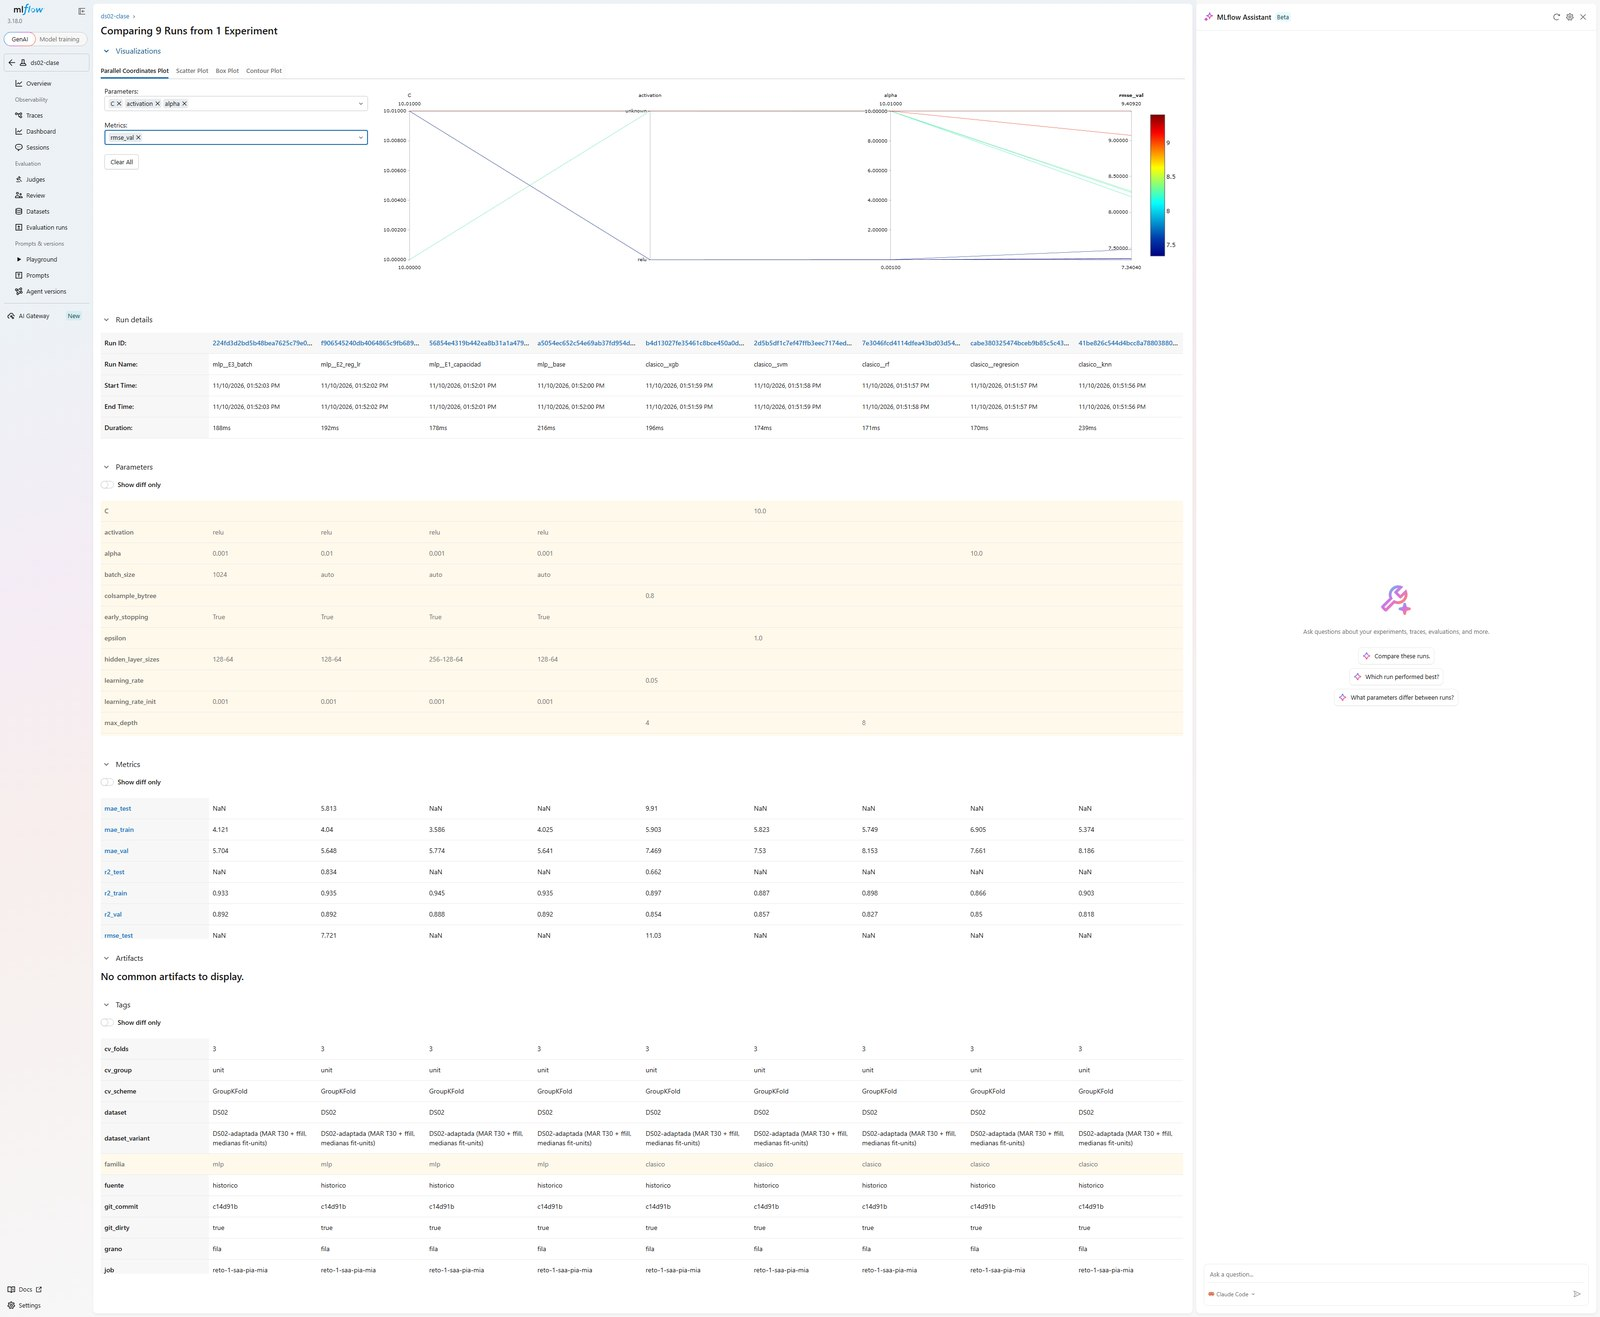
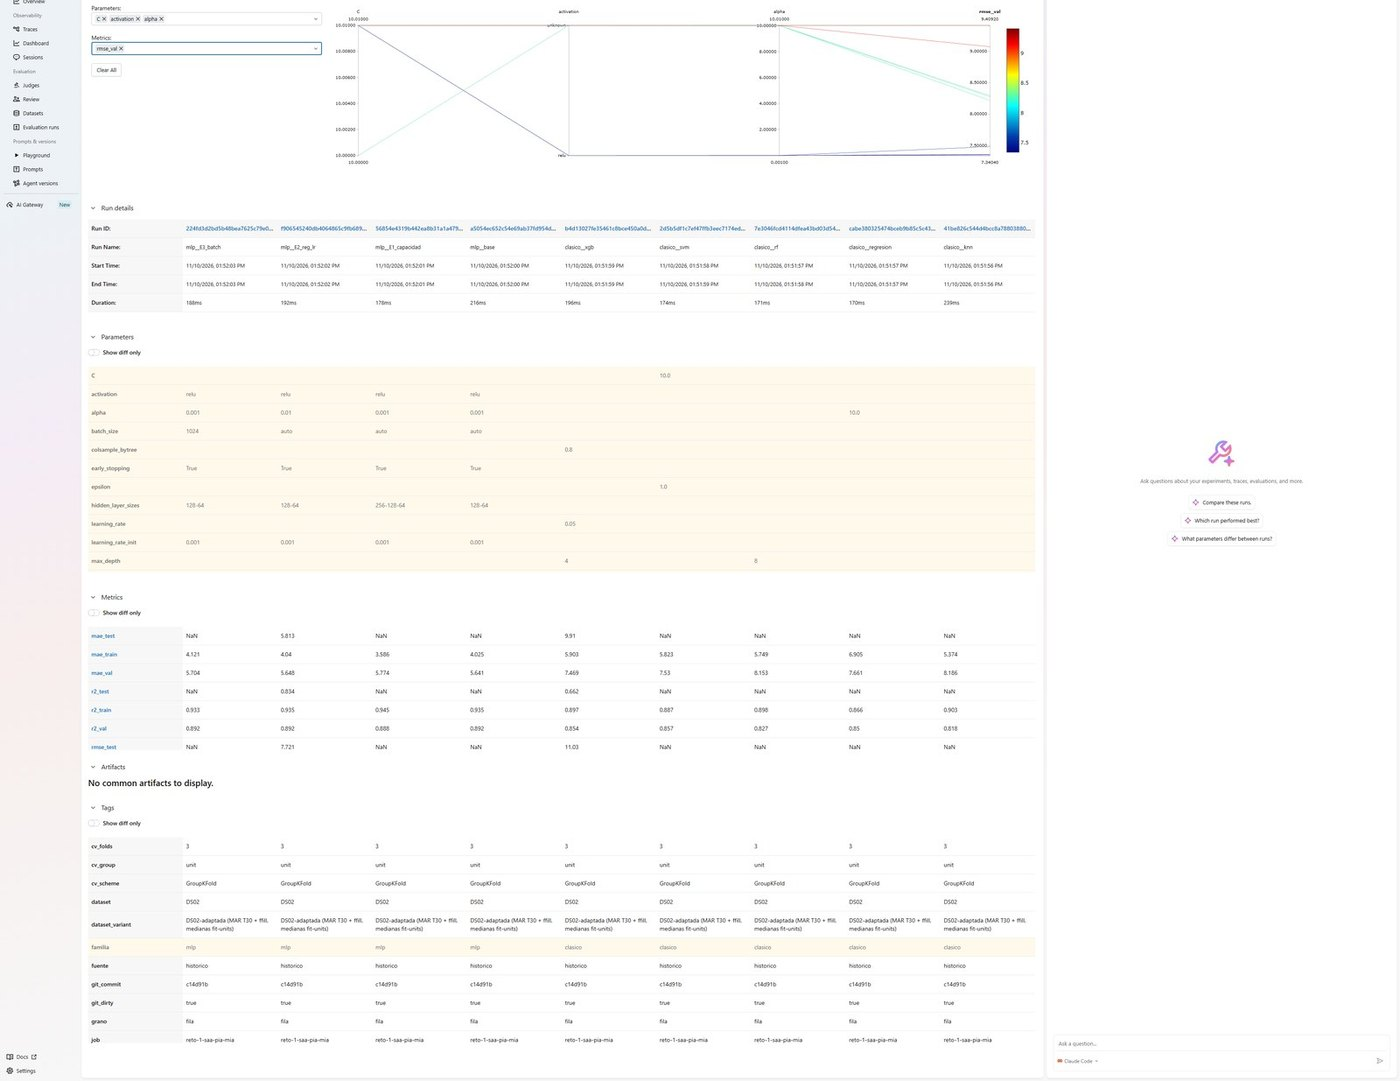
docs(mlflow): capturas enfocadas sin chrome y ancho uniforme

diff --git a/README.md b/README.md
@@ -371,14 +371,14 @@ Los granos no se mezclan: el RMSE de fila y el de ventana no miden lo mismo, y e
 store lo declara con el tag `grano`. La ablación se aísla con
 `familia=ablacion_cycnorm`.
 
-![MLflow Compare: nueve modelos de grano fila (5 clásicos + 4 MLP) por `rmse_val`](docs/evidencia/mlflow/compare_fila.jpg)
+<img src="docs/evidencia/mlflow/compare_fila.jpg" width="720" alt="MLflow Compare: nueve modelos de grano fila (5 clásicos + 4 MLP) por rmse_val">
 
 ### El grano ventana se compara dentro de MLflow
 
 Los cuatro runs del bundle (LGBM, BiLSTM, BiLSTM+EMA5 y el híbrido desplegado)
 comparten experimento y se comparan por `rmse_test`: 7.067 / 5.654 / 5.618 / 4.338.
 
-![MLflow Compare: cuatro runs de grano ventana, del LGBM al bundle C desplegado](docs/evidencia/mlflow/compare_ventana.jpg)
+<img src="docs/evidencia/mlflow/compare_ventana.jpg" width="720" alt="MLflow Compare: cuatro runs de grano ventana, del LGBM al bundle C desplegado">
 
 ### La ablación se compara dentro de MLflow
 
@@ -393,7 +393,7 @@ Se midió en `nb03` (test 11/14/15, semilla 42) y se registró **sin reentrenar*
 son cuatro runs comparables dentro de la herramienta, no una figura suelta del
 notebook. El grid 4×3 completo está en `resultados/ablacion_cycnorm.csv`.
 
-<img src="docs/evidencia/mlflow/compare_ablacion.jpg" width="760" alt="Vista Compare de MLflow con los cuatro runs de la ablación cyc_norm: rmse_test 5.974, 5.910, 5.896 y 5.878">
+<img src="docs/evidencia/mlflow/compare_ablacion.jpg" width="720" alt="Vista Compare de MLflow con los cuatro runs de la ablación cyc_norm: rmse_test 5.974, 5.910, 5.896 y 5.878">
 
 ### Por qué el store es de texto
 

diff --git a/README.en.md b/README.en.md
@@ -293,12 +293,14 @@ Grains never mix: row RMSE and window RMSE do not measure the same thing, and th
 store states it with the `grano` tag. Ablation runs are isolated by
 `familia=ablacion_cycnorm`.
 
+<img src="docs/evidencia/mlflow/compare_fila.jpg" width="720" alt="MLflow Compare view of nine row-grain models (5 classical + 4 MLP) by rmse_val">
+
 ### Window grain compared inside MLflow
 
 The four bundle runs (LGBM, BiLSTM, BiLSTM+EMA5 and the deployed hybrid) share one
 experiment and compare on `rmse_test`: 7.067 / 5.654 / 5.618 / 4.338.
 
-![MLflow Compare: four window-grain runs, from LGBM to the deployed bundle C](docs/evidencia/mlflow/compare_ventana.jpg)
+<img src="docs/evidencia/mlflow/compare_ventana.jpg" width="720" alt="MLflow Compare: four window-grain runs, from LGBM to the deployed bundle C">
 
 ### Ablation compared inside MLflow
 
@@ -313,7 +315,7 @@ It was measured in `nb03` (test 11/14/15, seed 42) and registered **without
 retraining**: four comparable runs inside the tool, not a lone notebook figure.
 The full 4×3 grid lives in `resultados/ablacion_cycnorm.csv`.
 
-<img src="docs/evidencia/mlflow/compare_ablacion.jpg" width="760" alt="MLflow Compare view of the four cyc_norm ablation runs: rmse_test 5.974, 5.910, 5.896 and 5.878">
+<img src="docs/evidencia/mlflow/compare_ablacion.jpg" width="720" alt="MLflow Compare view of the four cyc_norm ablation runs: rmse_test 5.974, 5.910, 5.896 and 5.878">
 
 ### Why the store is plain text
 
